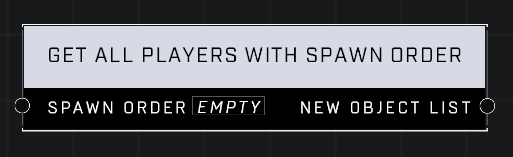
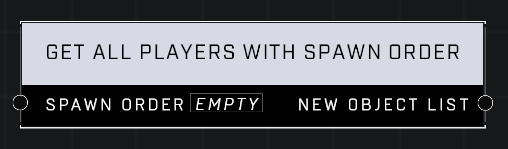
Fixed node pages from past updates
A couple nodes were missing pages, and several pages were not displaying their node snippets due to their urls using png and the images having PNG extension (shows up fine in VSC, not on website).

NOTE: IMAGES WILL NEED CHECKED AFTER MERGING - it's possible that since the image names remain the same that VSC renamed the new images with the PNG extention, even though they have the png extension. Github Changes are not clear...

Changed region(s): [[0.0295, 0.1342, 0.9744, 0.8859], [0.0886, 0.2953, 0.9154, 0.4027], [0.3839, 0.3758, 0.4134, 0.4027]]

diff --git a/SUMMARY.md b/SUMMARY.md
@@ -359,6 +359,8 @@
     * [On Object Entered Area](scripting/nodes/events/on-object-entered-area.md)
     * [On Object Exited Area](scripting/nodes/events/on-object-exited-area.md)
     * [On Object Spawned](scripting/nodes/events/on-object-spawned.md)
+    * [On Registered Object Entered Kill Volume](scripting/nodes/events/on-registered-object-entered-kill-volume.md)
+    * [On Registered Object Exited Kill Volume](scripting/nodes/events/on-registered-object-exited-kill-volume.md)
     * [On Round End](scripting/nodes/events/on-round-end.md)
     * [On Round Start](scripting/nodes/events/on-round-start.md)
     * [On Vehicle Entered](scripting/nodes/events/on-vehicle-entered.md)
@@ -395,6 +397,8 @@
   * [EVENTS GENERIC OBJECTIVES](scripting/nodes/events-generic-objectives/README.md)
     * [On Generic Ball Dropped](scripting/nodes/events-generic-objectives/on-generic-ball-dropped.md)
     * [On Generic Ball Pickup](scripting/nodes/events-generic-objectives/on-generic-ball-pickup.md)
+    * [On Generic Bomb Dropped](scripting/nodes/events-generic-objectives/on-generic-bomb-dropped.md)
+    * [On Generic Bomb Pickup](scripting/nodes/events-generic-objectives/on-generic-bomb-pickup.md)
     * [On Generic Flag Carrier Killed](scripting/nodes/events-generic-objectives/on-generic-flag-carrier-killed.md)
     * [On Generic Flag Dropped](scripting/nodes/events-generic-objectives/on-generic-flag-dropped.md)
     * [On Generic Flag Picked Up](scripting/nodes/events-generic-objectives/on-generic-flag-picked-up.md)
@@ -485,6 +489,7 @@
     * [On Oddball Spawned](scripting/nodes/events-modes/on-oddball-spawned.md)
     * [On Player Infected](scripting/nodes/events-modes/on-player-infected.md)
     * [On Player Level Up](scripting/nodes/events-modes/on-player-level-up.md)
+    * [On Revive Orb Spawned](scripting/nodes/events-modes/on-revive-orb-spawned.md)
     * [On VIP Killed](scripting/nodes/events-modes/on-vip-killed.md)
   * [EVENTS PLAYERS](scripting/nodes/events-players/README.md)
     * [On Medal Awarded](scripting/nodes/events-players/on-medal-awarded.md)
@@ -494,6 +499,8 @@
     * [On Player Killed](scripting/nodes/events-players/on-player-killed.md)
     * [On Player Mark](scripting/nodes/events-players/on-player-mark.md)
     * [On Player Spawned](scripting/nodes/events-players/on-player-spawned.md)
+    * [On Player Started Sprinting](scripting/nodes/events-players/on-player-started-sprinting.md)
+    * [On Player Stopped Sprinting](scripting/nodes/events-players/on-player-stopped-sprinting.md)
     * [On Player Team Change](scripting/nodes/events-players/on-player-team-change.md)
   * [GAME MODE](scripting/nodes/game-mode/README.md)
     * [Adjust Lifepool](scripting/nodes/game-mode/adjust-lifepool.md)

diff --git a/scripting/nodes/events/on-registered-object-entered-kill-volume.md b/scripting/nodes/events/on-registered-object-entered-kill-volume.md
@@ -1,0 +1,24 @@
+# On Registered Object Entered Kill Volume
+![](../../../.gitbook/assets/on-registered-object-entered-kill-volume.png)
+## Description
+Event called when an object registered through nodegraph enters a Kill Volume's boundary.
+
+## Node Type
+Nodes fall into two basic categories: Data and Execution. This Execution node fires when something happens in the game that triggers it, and starts off the node string.
+
+## Inputs
+| Input            | Type             | Required | Description												    |
+|------------------|------------------|----------|--------------------------------------------------------------|
+| (none) | N/A  | N/A  | |
+
+## Outputs
+| Output           | Type             | Description												     |
+|------------------|------------------|--------------------------------------------------------------|
+| Object | Object  | The Object that was detected entering a Kill Volume.  |
+
+\
+\
+**Contributors**
+
+AddiCt3d 2CHa0s \
+Okom

diff --git a/scripting/nodes/events/on-registered-object-exited-kill-volume.md b/scripting/nodes/events/on-registered-object-exited-kill-volume.md
@@ -1,0 +1,24 @@
+# On Registered Object Exited Kill Volume
+![](../../../.gitbook/assets/on-registered-object-exited-kill-volume.png)
+## Description
+Event called when an object registered through nodegraph exits a Kill Volume's boundary.
+
+## Node Type
+Nodes fall into two basic categories: Data and Execution. This Execution node fires when something happens in the game that triggers it, and starts off the node string.
+
+## Inputs
+| Input            | Type             | Required | Description												    |
+|------------------|------------------|----------|--------------------------------------------------------------|
+| (none) | N/A  | N/A  | |
+
+## Outputs
+| Output           | Type             | Description												     |
+|------------------|------------------|--------------------------------------------------------------|
+| Object | Object  | The Object that was detected entering a Kill Volume.  |
+
+\
+\
+**Contributors**
+
+AddiCt3d 2CHa0s \
+Okom

diff --git a/scripting/nodes/events-generic-objectives/on-generic-bomb-pickup.md b/scripting/nodes/events-generic-objectives/on-generic-bomb-pickup.md
@@ -1,0 +1,25 @@
+# On Generic Bomb Pickup
+![](../../../.gitbook/assets/on-generic-bomb-pickup.png)
+## Description
+Event called whenever the given *Generic Bomb* is picked up
+
+## Node Type
+Nodes fall into two basic categories: Data and Execution. This Execution node fires when something happens in the game that triggers it, and starts off the node string.
+
+## Inputs
+| Input | Type | Required | Description |
+|------------------|------------------|----------|--------------------------------------------------------------|
+| Generic Bomb | Object | Yes | Which object to listen for when picked up. |
+
+## Outputs
+| Output | Type | Description |
+|------------------|------------------|--------------------------------------------------------------|
+| Acquiring Player | Player | Which player picked up the object.|
+| Pickup Position | Vector3 | The location where the bomb was when it was picked up.
+
+\
+\
+**Contributors**
+
+AddiCt3d 2CHa0s \
+Okom

diff --git a/scripting/nodes/events-generic-objectives/on-generic-bomb-dropped.md b/scripting/nodes/events-generic-objectives/on-generic-bomb-dropped.md
@@ -1,0 +1,24 @@
+# On Generic Bomb Dropped
+![](../../../.gitbook/assets/on-generic-bomb-dropped.png)
+## Description
+Event called whenever the given *Generic Bomb* leaves a player's hands
+
+## Node Type
+Nodes fall into two basic categories: Data and Execution. This Execution node fires when something happens in the game that triggers it, and starts off the node string.
+
+## Inputs
+| Input | Type | Required | Description |
+|------------------|------------------|----------|--------------------------------------------------------------|
+| Generic Bomb | Object | Yes | Which object to listen for when dropped. |
+
+## Outputs
+| Output | Type | Description |
+|------------------|------------------|--------------------------------------------------------------|
+| Dropping Player | Player | Which player dropped the object.|
+
+\
+\
+**Contributors**
+
+AddiCt3d 2CHa0s \
+Okom

diff --git a/scripting/nodes/events-players/on-player-started-sprinting.md b/scripting/nodes/events-players/on-player-started-sprinting.md
@@ -1,0 +1,24 @@
+# On Player Started Sprinting
+![](../../../.gitbook/assets/on-player-started-sprinting.png)
+## Description
+Event called when the Player starts sprinting
+
+## Node Type
+Nodes fall into two basic categories: Data and Execution. This node listens for an Event, then triggers it's node string.
+
+## Inputs
+| Input | Type | Required | Description |
+|------------------|------------------|----------|--------------------------------------------------------------|
+| N/A | N/A | N/A | |
+
+## Outputs
+| Output | Type | Description |
+|------------------|------------------|--------------------------------------------------------------|
+| Player | Player | The player who has started sprinting. |
+
+\
+\
+**Contributors**
+
+AddiCt3d 2CHa0s \
+Okom

diff --git a/scripting/nodes/events-players/on-player-stopped-sprinting.md b/scripting/nodes/events-players/on-player-stopped-sprinting.md
@@ -1,0 +1,24 @@
+# On Player Stopped Sprinting
+![](../../../.gitbook/assets/on-player-stopped-sprinting.png)
+## Description
+Event called when the Player stops sprinting
+
+## Node Type
+Nodes fall into two basic categories: Data and Execution. This node listens for an Event, then triggers it's node string.
+
+## Inputs
+| Input | Type | Required | Description |
+|------------------|------------------|----------|--------------------------------------------------------------|
+| N/A | N/A | N/A | |
+
+## Outputs
+| Output | Type | Description |
+|------------------|------------------|--------------------------------------------------------------|
+| Player | Player | The player who has stopped sprinting. |
+
+\
+\
+**Contributors**
+
+AddiCt3d 2CHa0s \
+Okom

diff --git a/scripting/nodes/objects/get-all-players-with-spawn-order.md b/scripting/nodes/objects/get-all-players-with-spawn-order.md
@@ -1,5 +1,5 @@
 # Get All Players With Spawn Order
-![](../../../.gitbook/assets/get-all-players-with-spawn-order.PNG)
+![](../../../.gitbook/assets/get-all-players-with-spawn-order.png)
 ## Description
 Returns a list of all players with the matching Spawn Order
 
